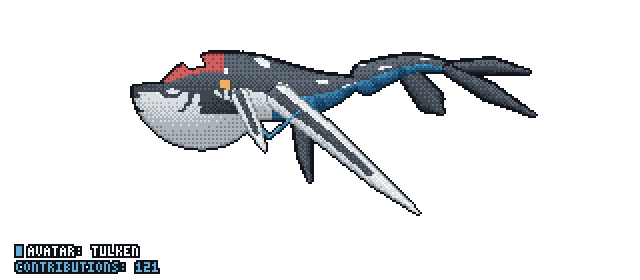
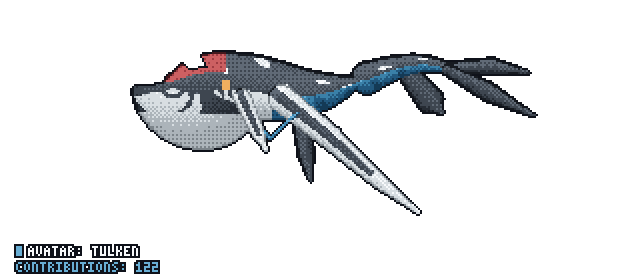
chore: update Tulkun from latest GitHub activity

diff --git a/tulkun/preview.html b/tulkun/preview.html
@@ -16,7 +16,7 @@
 </style>
 </head>
 <body>
-<header class="dark"><h1>@Melan-Parajuli7 — Adult Male Bull (Hooked Hammer-Crest) (121 commits)</h1></header>
+<header class="dark"><h1>@Melan-Parajuli7 — Adult Male Bull (Hooked Hammer-Crest) (122 commits)</h1></header>
 <section class="dark">
 <h2>GitHub Dark Mode</h2>
 <div class="images">
